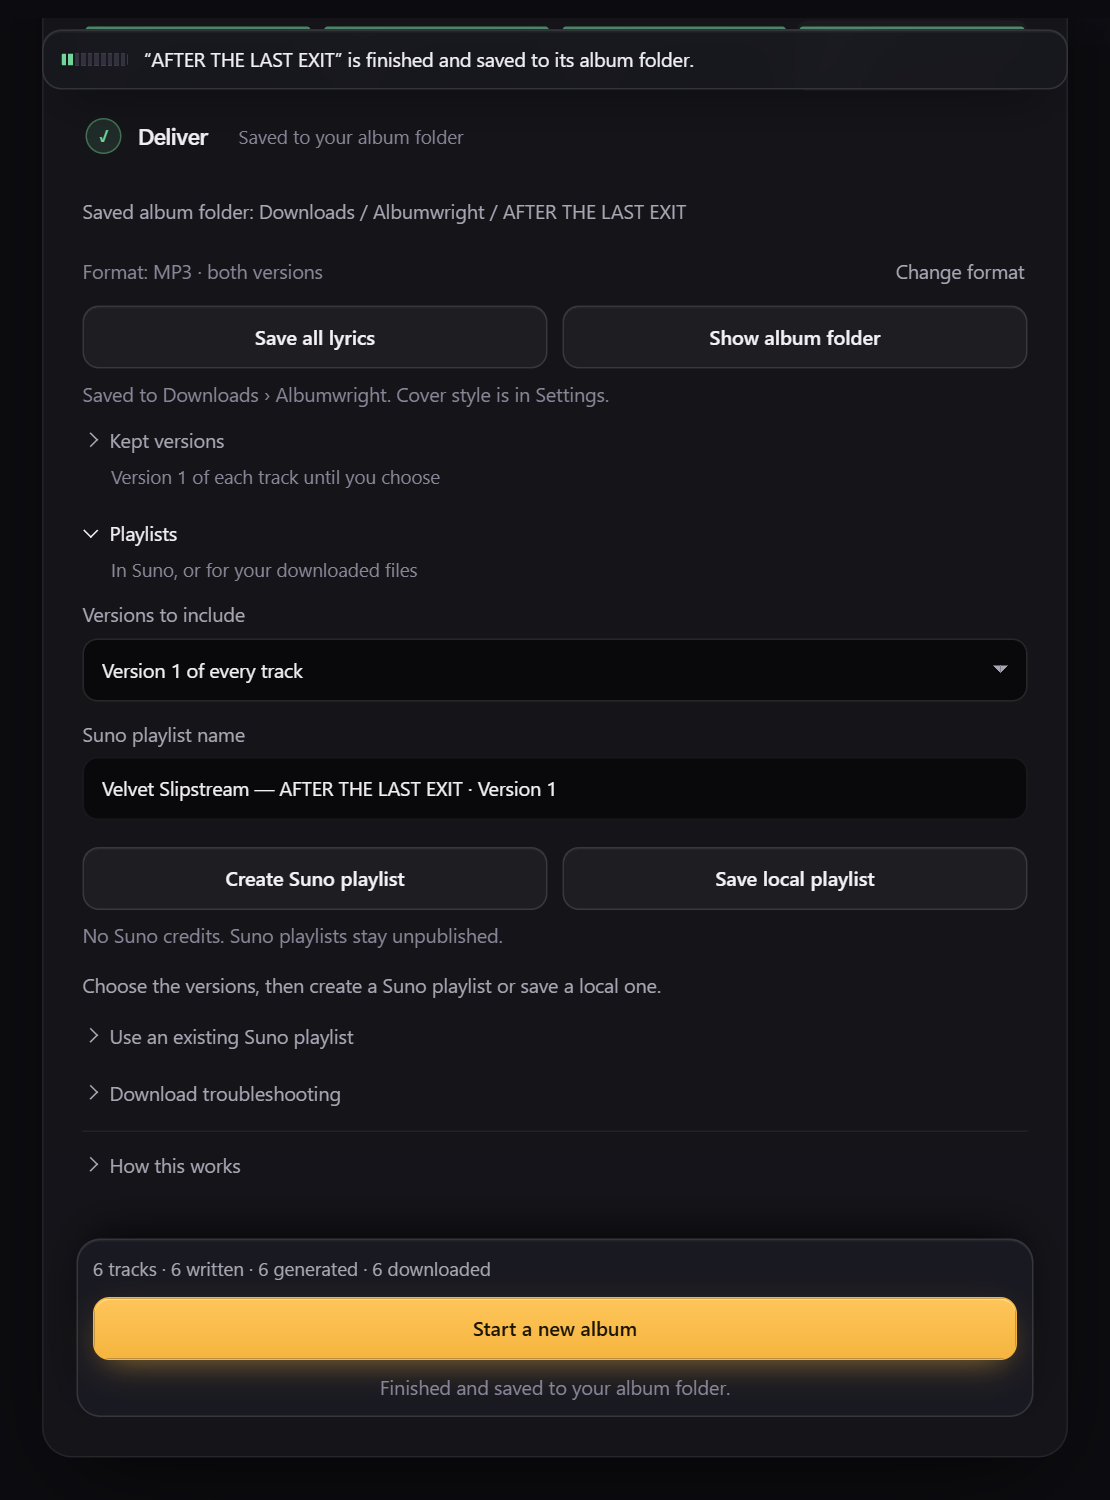
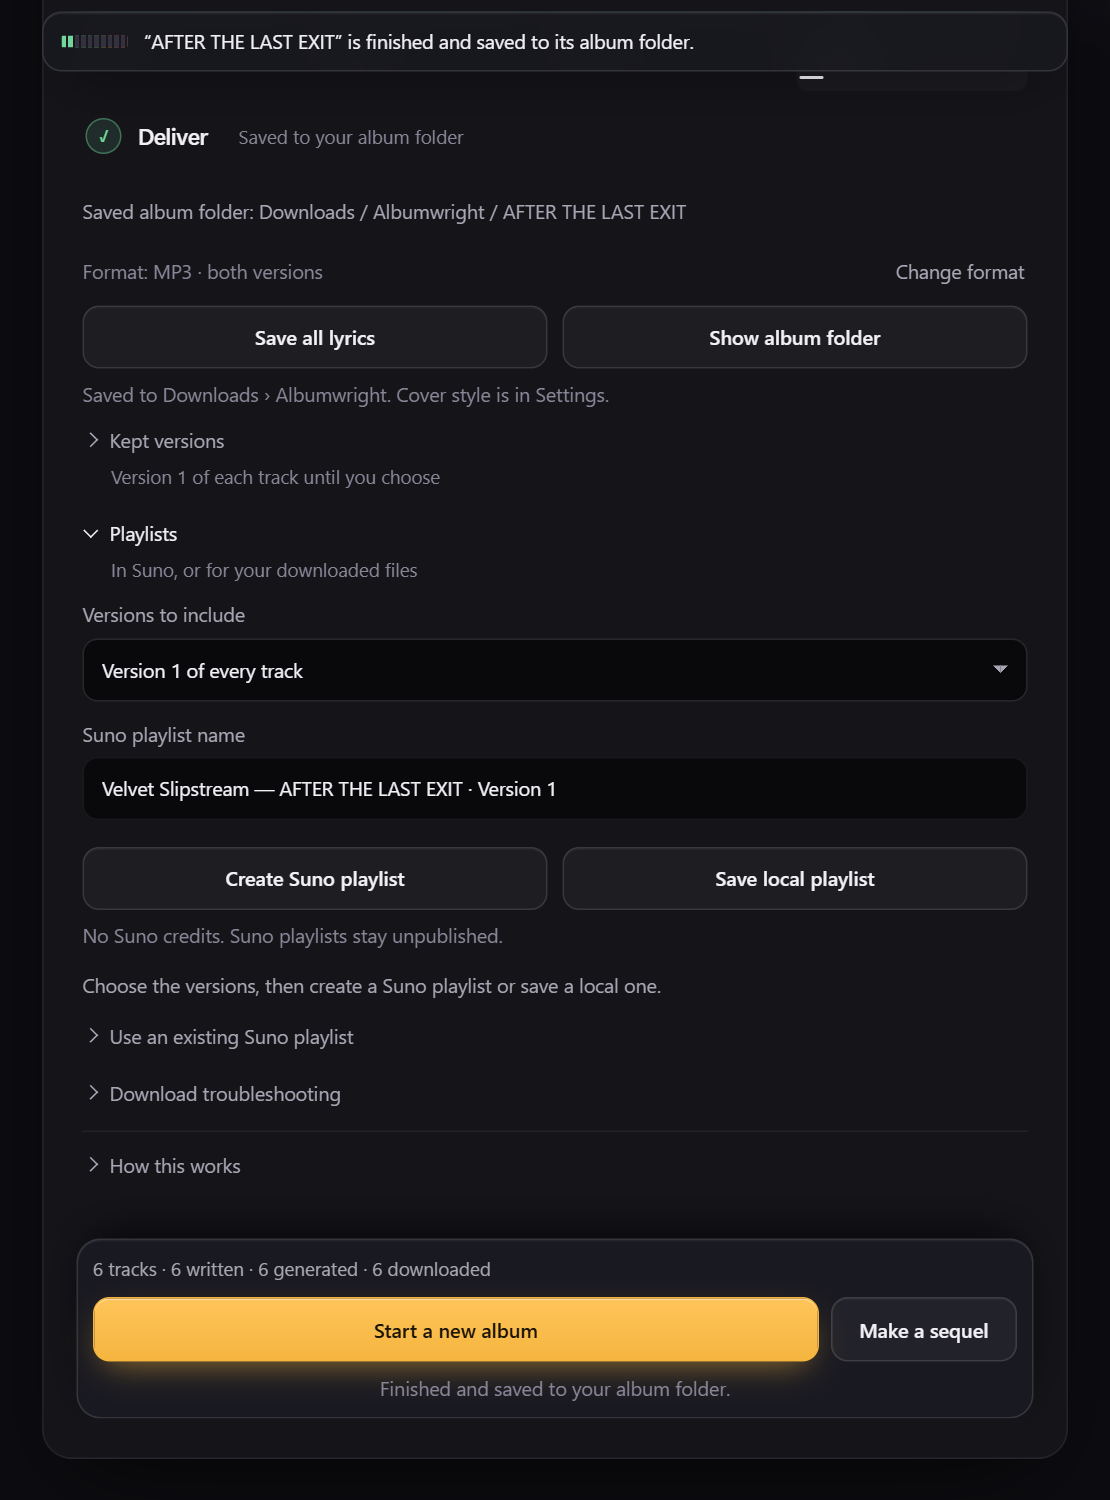
Publish site from albumwright@72f1416

diff --git a/index.html b/index.html
@@ -139,7 +139,7 @@
         <p class="step-lede">Describe the record you want, in your own words.</p>
         <dl class="split">
           <div><dt>You decide</dt><dd>The concept, genre and mood, the mix of vocal and instrumental tracks, and how many tracks.</dd><dd>How hands-on to be: fully automatic, or steer by choosing the singer and which versions to keep.</dd></div>
-          <div><dt>Albumwright plans</dt><dd>The artist identity, the tracklist, and a mood and energy arc for every track.</dd><dd>A Suno credit estimate, shown before anything is spent.</dd></div>
+          <div><dt>Albumwright plans</dt><dd>The artist identity, the tracklist, and a mood and energy arc for every track.</dd><dd>A Suno credit estimate, shown before anything is spent.</dd><dd>If you want one, the artist's story: fictional members, an origin, and a new chapter on every album.</dd></div>
         </dl>
       </div>
       <figure class="panel-shot">
@@ -193,7 +193,7 @@
       </div>
       <figure class="panel-shot">
         <div class="panel-bar"><img src="assets/albumwright-mark.svg" alt="" width="18" height="18">Albumwright</div>
-        <img class="screen" src="assets/screens/deliver.png" alt="The Deliver step for a finished album, with its saved folder and format, the kept versions, and playlist options." width="1110" height="1500" loading="lazy">
+        <img class="screen" src="assets/screens/deliver.png" alt="The Deliver step for a finished album, with its saved folder and format, the kept versions, playlist options, and Make a sequel beside Start a new album." width="1110" height="1500" loading="lazy">
       </figure>
     </article>
   </div>
@@ -247,6 +247,7 @@
         <ul class="facts">
           <li>Every album as a cover tile.</li>
           <li>Your artists, and every song with its lyrics laid out by section.</li>
+          <li>Each artist's story, one chapter per album, and Make a sequel: the same artist picks up where an album ended.</li>
           <li>Search and filters across albums, artists, tracks and lyrics.</li>
           <li>Open it while albums generate or download.</li>
         </ul>
